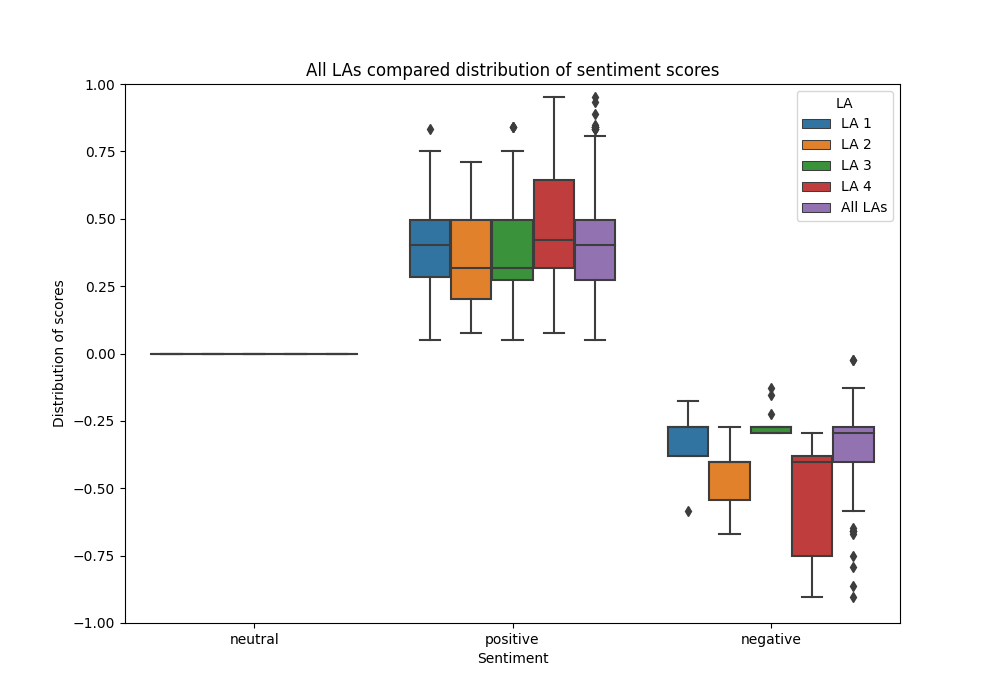
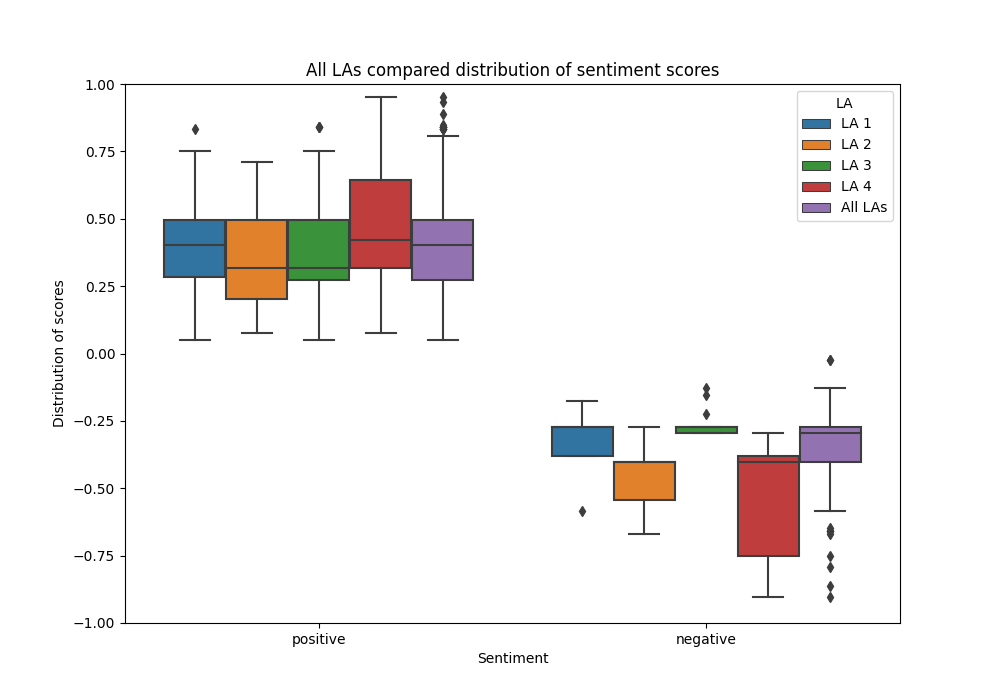
fixed all la sentiment box

diff --git a/p2a_analysis/text_analysis refactor.py b/p2a_analysis/text_analysis refactor.py
@@ -174,11 +174,12 @@ all_sentiments = pd.concat([combined_sentiment_dfs['LA 1'],
                            combined_sentiment_dfs['LA 4'], 
                            combined_sentiment_dfs['All LAs']], axis=0).reset_index()
 all_sentiments = all_sentiments[['compound', 'LA', 'sentiment']]
+no_neutral_sentiments = all_sentiments[all_sentiments['sentiment'] != 'neutral']
 #all_sentiments = all_sentiments[all_sentiments['sentiment'] != 'neutral']
 
 count_box = sns.boxplot(y='compound',
             x='sentiment',
-            data=all_sentiments,
+            data=no_neutral_sentiments,
             hue='LA',);
 plt.title(f'All LAs compared distribution of sentiment scores')
 plt.xlabel('Sentiment')
